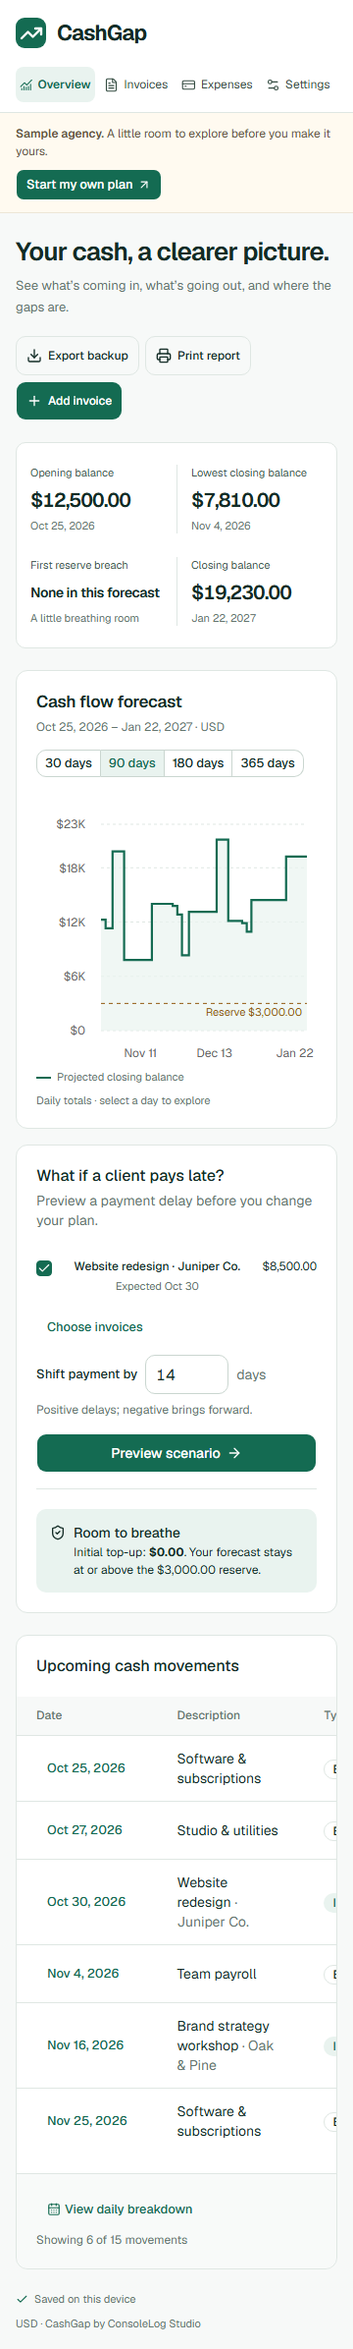
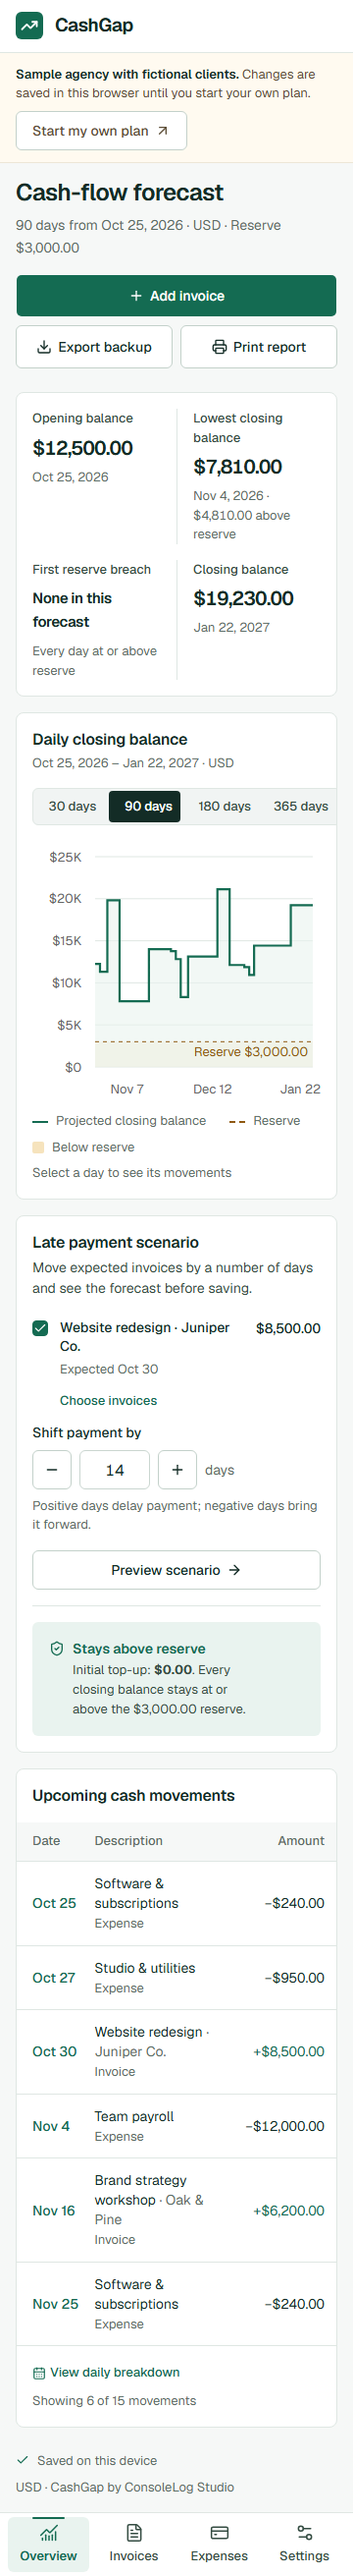
Record the public verification of the redesign release
Pushing 84b173b triggered Cloudflare Pages deployment b2257e8c, and the
public smoke check passed on cashgap.pages.dev. Update the release
metadata, deployment guide, README, and acceptance record now that push
builds work, and note the 360 px horizon-control clipping seen in the
deployed phone screenshot. The smoke script's full-page shots now grow
the viewport so the fixed sidebar and phone tab bar render in place.

diff --git a/docs/acceptance-results.md b/docs/acceptance-results.md
@@ -1,6 +1,6 @@
 # CashGap acceptance results
 
-Local gate re-run November 20, 2026 (Asia/Dhaka) for the four-screen redesign and the Next.js 16.4.6 upgrade. The public deployment at [cashgap.pages.dev](https://cashgap.pages.dev) was verified October 26, 2026 and still serves that earlier release; see [public deployment verification](#public-deployment-verification). Source is in [GitHub](https://github.com/shawalkabirchy/cashgap).
+Recorded November 20, 2026 (Asia/Dhaka) for the four-screen redesign and the Next.js 16.4.6 upgrade. The release is deployed and publicly verified at [cashgap.pages.dev](https://cashgap.pages.dev), with source in [GitHub](https://github.com/shawalkabirchy/cashgap).
 
 ## Recorded runs
 
@@ -12,7 +12,7 @@ Local gate re-run November 20, 2026 (Asia/Dhaka) for the four-screen redesign an
 | `npm run build` | Passed; four routes exported to `out` | [Production build log](qa/build.log) |
 | `CASHGAP_URL=http://localhost:4180 npm run test:e2e` | 54 passed; 0 failed, skipped, or flaky; 105.06 seconds | [Playwright JSON](qa/e2e-results.json), [test source](../tests/app.spec.ts) |
 | `CASHGAP_URL=http://localhost:4180/ npm run capture:portfolio` | Passed; synthetic screenshots, print PDFs, and installed-browser keyboard checks | [Capture environment](portfolio/capture-environment.json), [capture script](../scripts/capture-portfolio.mjs) |
-| `node scripts/verify-deployment.mjs` | Passed October 26, 2026 on the public Cloudflare origin in isolated Chromium, for the earlier release; not re-run | [Public smoke results](qa/deployed-smoke-results.json), [script](../scripts/verify-deployment.mjs), [release metadata](qa/cloudflare-release.json) |
+| `node scripts/verify-deployment.mjs` | Passed on the public Cloudflare origin in isolated Chromium (deployment `b2257e8c` of commit `84b173b`) | [Public smoke results](qa/deployed-smoke-results.json), [script](../scripts/verify-deployment.mjs), [release metadata](qa/cloudflare-release.json) |
 
 The browser suite and capture ran against the production export served at `http://localhost:4180`, because another local project's server held port 4173 and Playwright would otherwise reuse it. The suite used two workers, isolated test workspaces, and no retries, with 18 cases per engine. Lint, type-check, unit tests, build, browser suite, and capture ran in that order against one build; no application source changed afterwards. Evidence copies under `docs/qa` survive replacement of the temporary `test-results` directory.
 
@@ -32,7 +32,7 @@ The browser suite and capture ran against the production export served at `http:
 
 | Check ID | Method | Result | Evidence location |
 | --- | --- | --- | --- |
-| G-A1 — usable UI | Render at 1440 px and 360 px; assert navigation and page bounds. Run axe WCAG 2 A/AA checks on desktop, mobile, and invoice dialog. Check Escape, focus restoration, associated invalid fields, and reduced-motion capture. Navigate, preview/cancel, and save an invoice using Tab/Enter/type in installed Chrome and Edge. | Passed in the tested views. On phones, movement, invoice, and expense tables fold secondary columns into the description line; the daily table scrolls within its own region without page overflow at 360 px. No axe violations in those scans. | Responsive/focus/validation browser cases in [results](qa/e2e-results.json); [keyboard capture record](portfolio/capture-environment.json); [desktop](portfolio/desktop-annotated.png), [mobile](portfolio/mobile-annotated.png) |
+| G-A1 — usable UI | Render at 1440 px and 360 px; assert navigation and page bounds. Run axe WCAG 2 A/AA checks on desktop, mobile, and invoice dialog. Check Escape, focus restoration, associated invalid fields, and reduced-motion capture. Navigate, preview/cancel, and save an invoice using Tab/Enter/type in installed Chrome and Edge. | Passed in the tested views. On phones, movement, invoice, and expense tables fold secondary columns into the description line; the daily table scrolls within its own region without page overflow at 360 px. No axe violations in those scans. Known issue: at 360 px the forecast horizon control runs past the chart card's padding and the card clips its right end; all four labels stay visible ([deployed phone screenshot](qa/deployed-mobile.png)). It fits at 390 px. | Responsive/focus/validation browser cases in [results](qa/e2e-results.json); [keyboard capture record](portfolio/capture-environment.json); [desktop](portfolio/desktop-annotated.png), [mobile](portfolio/mobile-annotated.png) |
 | G-A2 — truthful state | Observe initial loading, explicit unsaved sample when storage is blocked, invalid input, failed save, successful transaction, and preview status. Abort an actual write transaction after request success. | Passed: aborted transaction never reports Saved; draft survives; invalid fields retain values. | Blocked/quota/aborted-transaction browser cases in [results](qa/e2e-results.json) |
 | G-A3 — reliable records | Reload committed data; race two same-origin tabs; abort transaction; inject quota failure; attempt invalid import/restore. Export committed data after a failed replacement. | Passed: no stale overwrite, partial write, or accidental export of a failed replacement as the old saved workspace. | Stale tab/scenario, quota, abort, failed replacement, and backup browser cases in [results](qa/e2e-results.json) |
 | G-A4 — privacy | Record request URLs and bodies before and after selecting/importing a sentinel CSV. Check for its filename, contents, and client text; reject non-local requests. Inspect file workflows and locally bundled fonts. | Passed: no sentinel or off-origin requests during that workflow. There are no application upload/analytics APIs. | Browser `CSV validates every row, preserves data, then imports locally`; [transfer source](../src/lib/transfers.ts); [capture console record](portfolio/capture-environment.json) |
@@ -63,20 +63,18 @@ Both print PDFs contain four pages and all 90 daily rows. A4 first page and Lett
 
 ## Public deployment verification
 
-The initial Cloudflare Git build for application commit `e8e94df55de3f213cc66ba44ea0ebf6f823985e9` succeeded on October 26, 2026. Public verification checked all four direct routes and provider headers, saved scenario application across reload, JSON download/restoration, CSV privacy, daily/print output, and phone layout. [Public results](qa/deployed-smoke-results.json) retain the actual responses and [screenshots](qa/deployed-desktop.png). The mobile check waits for the chart's resize observer to settle; an immediate resize assertion was premature. The October 26 three-engine suite ran locally against that same application source; the public smoke run used Chromium.
+Pushing commit `84b173b` to `main` on November 20, 2026 triggered a Cloudflare Pages Git build automatically. Deployment [`b2257e8c`](https://b2257e8c.cashgap.pages.dev) succeeded and serves production. Public verification on that origin then checked all four direct routes and provider headers, saved scenario application across reload, JSON download/restoration, CSV privacy, daily/print output, and 1440 px / 360 px layouts, with no console or HTTP errors and no off-origin requests. [Public results](qa/deployed-smoke-results.json) retain the actual responses; see the [desktop](qa/deployed-desktop.png) and [phone](qa/deployed-mobile.png) screenshots and [release metadata](qa/cloudflare-release.json). The mobile check waits for the chart's resize observer to settle. The three-engine suite above ran locally against the same application source; the public smoke run used Chromium.
 
-That release predates the redesign and Next.js 16.4.6. On November 20, 2026 the public origin still served the earlier interface: its sidebar reads "Private by design", where the redesign reads "Stored on this device". The redesign and upgrade commits are on local `main` and have not been pushed or deployed, so the public smoke run was not repeated.
+The initial release (`e8e94df`, October 26, 2026) predates push builds. It used a manual Git-backed build through the Cloudflare Pages API and passed the same public check.
 
 ## Not run and release limits
 
 | Environment or check | Result | Reason / next step |
 | --- | --- | --- |
-| Public deployment of the redesign and Next.js 16.4.6 | **Not run** | The commits are local only. Push them (or trigger a manual Git-backed build), then re-run `node scripts/verify-deployment.mjs` against the public origin. |
-| Automatic deployment after a Git push | **Not active** | A follow-up push did not trigger a build. CashGap is absent from the existing Cloudflare GitHub app's selected repositories. Manual Git-backed deployment succeeds; the owner must review and grant repository access to enable push builds. See [deployment setup](deployment.md). |
 | Custom-domain behavior | **Not run** | The deployed and verified origin is the free `cashgap.pages.dev` subdomain. No custom domain was requested. |
 | Actual Safari, iOS devices, Android devices, and screen-reader session | **Not run** | No physical-device or screen-reader session was available. Managed WebKit and axe are the recorded substitutes, not proof of those environments. |
 | Physical A4/Letter printer output | **Not run** | Browser-generated PDFs and CSS print rendering were verified; paper output was not. |
 | Full interaction-to-paint latency at maximum records | **Not run** | The recorded performance figure measures only the pure forecast calculation. |
 | Browser eviction, hardware failure, and operating-system disk exhaustion | **Not run** | Failure injection verifies application responses; it does not simulate every environmental failure. Export JSON for retention. |
 
-The October release is deployed and verified for portfolio review; the redesign and Next.js 16.4.6 are verified locally only. Browser storage belongs to a device and origin, can be cleared, and has no cloud replica; JSON backup/restore is the recovery path. Existing localhost workspaces do not automatically move to the public origin.
+The app is deployed and verified for portfolio review. Browser storage belongs to a device and origin, can be cleared, and has no cloud replica; JSON backup/restore is the recovery path. Existing localhost workspaces do not automatically move to the public origin.

diff --git a/docs/deployment.md b/docs/deployment.md
@@ -2,7 +2,7 @@
 
 The application is a static Next.js export. It needs no server runtime, environment secrets, Functions, D1 database, or API bindings.
 
-**Production:** [cashgap.pages.dev](https://cashgap.pages.dev). **Source:** [shawalkabirchy/cashgap](https://github.com/shawalkabirchy/cashgap), branch `main`. The Pages project is `cashgap`, connected through the owner's GitHub integration. The first deployment and public verification completed October 26, 2026. See [release metadata](qa/cloudflare-release.json) and [public smoke results](qa/deployed-smoke-results.json).
+**Production:** [cashgap.pages.dev](https://cashgap.pages.dev). **Source:** [shawalkabirchy/cashgap](https://github.com/shawalkabirchy/cashgap), branch `main`. The Pages project is `cashgap`, connected through the owner's GitHub integration. The first deployment and public verification completed October 26, 2026. The current release (commit `84b173b`, deployment `b2257e8c`) was built from a push and publicly verified November 20, 2026. See [release metadata](qa/cloudflare-release.json) and [public smoke results](qa/deployed-smoke-results.json).
 
 ## Prepare the release
 
@@ -21,11 +21,11 @@ The deployable directory is **out**. Keep `public/_headers` in the source; Next 
 
 ## Production configuration
 
-The existing project has a GitHub source and builds successfully from `main`. The release was triggered through the authenticated Cloudflare Pages API, not by a push webhook. The build runs in Cloudflare's Linux build image version 3. No repository deployment secrets or local Wrangler login were needed.
+The existing project has a GitHub source and builds successfully from `main`. The initial release was triggered through the authenticated Cloudflare Pages API; later releases build from pushes to `main`. The build runs in Cloudflare's Linux build image version 3. No repository deployment secrets or local Wrangler login were needed.
 
-**Automatic push builds need an owner setup step.** The existing Cloudflare Workers and Pages GitHub app is restricted to selected repositories, and CashGap is not selected. A follow-up push did not create a deployment. Its settings advertise write access to repository administration, code, checks, deployments, and pull requests; that access was not expanded during deployment. To enable automatic production and preview builds, review [the existing installation](https://github.com/settings/installations/167602600), add only `shawalkabirchy/cashgap` while retaining the existing selections, and save. Then verify a new push creates a deployment. The Pages-side production and preview controls are already enabled.
+**Automatic push builds are active.** Pushing `84b173b` to `main` on November 20, 2026 created a Cloudflare Pages check run on the commit and production deployment `b2257e8c` with no manual trigger, so [the Cloudflare GitHub app installation](https://github.com/settings/installations/167602600) now covers this repository. Preview builds for other branches are enabled in Pages settings but have not been exercised.
 
-Until that access is granted, a manual Git-backed deployment works: send an authenticated `POST /accounts/{account_id}/pages/projects/cashgap/deployments` request with `multipart/form-data` containing `branch=main`. Cloudflare fetches and builds that branch. This is the method used for this release; creating a deployment for a new commit is separate from pushing it to GitHub.
+If push builds stop, for example because the repository is dropped from the app's selected repositories, a manual Git-backed deployment still works: send an authenticated `POST /accounts/{account_id}/pages/projects/cashgap/deployments` request with `multipart/form-data` containing `branch=main`. Cloudflare fetches and builds that branch. The initial release used this method.
 
 The configured build settings are:
 
@@ -48,7 +48,7 @@ References: [Cloudflare static Next.js guide](https://developers.cloudflare.com/
 
 Open `/`, `/invoices/`, `/expenses/`, and `/settings/` directly and refresh them. Confirm the sample initializes once; save an invoice and reload; preview/cancel/apply the 14-day scenario; download and restore a synthetic backup; inspect print layout; and check requests/console for missing assets or financial-data transmission. Confirm the configured response headers on that origin and recheck current free-plan terms before distribution.
 
-The public Chromium smoke check passed direct navigation to all four routes, provider response headers, scenario preview/cancel/apply and reload, JSON download/restoration, local CSV import, print/PDF rendering, and 1440 px / 360 px layouts. It recorded no console/HTTP errors, off-origin requests, or imported sentinel data in requests. See [results](qa/deployed-smoke-results.json) and the [desktop](qa/deployed-desktop.png) / [phone](qa/deployed-mobile.png) screenshots. Actual Safari/device checks and custom-domain behavior remain **Not run**.
+The public Chromium smoke check (latest run November 20, 2026) passed direct navigation to all four routes, provider response headers, scenario preview/cancel/apply and reload, JSON download/restoration, local CSV import, print/PDF rendering, and 1440 px / 360 px layouts. It recorded no console/HTTP errors, off-origin requests, or imported sentinel data in requests. See [results](qa/deployed-smoke-results.json) and the [desktop](qa/deployed-desktop.png) / [phone](qa/deployed-mobile.png) screenshots. Actual Safari/device checks and custom-domain behavior remain **Not run**.
 
 With Playwright Chromium installed, rerun the public check with:
 

diff --git a/README.md b/README.md
@@ -124,7 +124,7 @@ Third-party notices are retained in [public/third-party-licenses.txt](public/thi
 
 Use **Settings & data → Reset to sample agency** to replace the workspace with today's fictional agency, or **Start a new personal plan** to create an empty USD/BDT plan. Both require explicit replacement confirmation and offer an export first. Clearing browser data is unnecessary.
 
-Production is deployed at [cashgap.pages.dev](https://cashgap.pages.dev). Cloudflare Pages builds `main` from this repository with `npm run build` and publishes `out` when a deployment is triggered. This release used a manual Git-backed build. Future push-triggered builds require adding CashGap to the existing Cloudflare GitHub app's selected repositories. See [deployment and verification instructions](docs/deployment.md). Mandatory runtime spending is zero: static assets only, no Functions, database, paid API, or newly purchased domain. This repository does not contain deployment credentials.
+Production is deployed at [cashgap.pages.dev](https://cashgap.pages.dev). Cloudflare Pages builds `main` from this repository with `npm run build` and publishes `out` when a deployment is triggered. Pushes to `main` trigger production builds; the November 20, 2026 release deployed that way. See [deployment and verification instructions](docs/deployment.md). Mandatory runtime spending is zero: static assets only, no Functions, database, paid API, or newly purchased domain. This repository does not contain deployment credentials.
 
 ## Portfolio material
 
